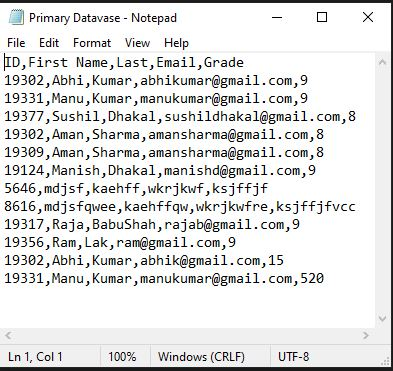
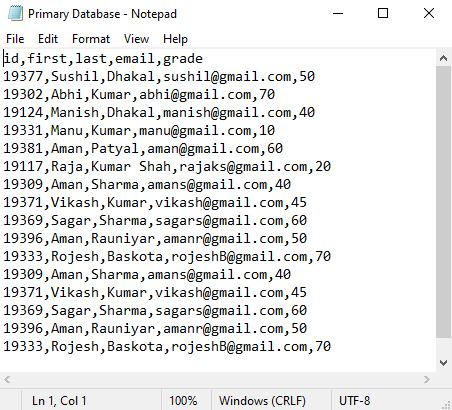
Second Version

diff --git a/StudentDetail.py b/StudentDetail.py
@@ -1,13 +1,20 @@
-from test import start
+from numpy import flatiter, true_divide
 from tkinter import *
-from numpy import heaviside
+from tkinter import messagebox
 import pandas as pd
-from pandastable import Table, TableModel
 import time
-
+import csv
 from pandas.core.indexes.base import Index
+from pandas.core.window.rolling import Window
 
-primary_database=pd.DataFrame()
+
+try: 
+    df=pd.read_csv("Primary Database.csv")
+    
+except:
+    df=pd.DataFrame(columns=["id", "first", "last", "email", "grade"])
+
+
 
 class myWindow:
     def __init__(self, win):
@@ -18,14 +25,20 @@ class myWindow:
         self.email_lab=Label(win, text="Email")
         self.grade_lab=Label(win, text="Grade")
 
-        self.submit_but=Button(win, text="Submit" , command= lambda: self.submit(win, primary_database))
-        self.save=Button(win, text="Display Database" , command= lambda: self.display_data(win, ))
+        self.submit_but=Button(win, text="Submit" , command= lambda: self.submit(win, df))
+        self.save=Button(win, text="Display Database" , command= lambda: self.display_data(win))
+        self.delete_but=Button(win, text="Delete/ Edit", command= lambda : self.delete(win, df))
+        self.save_but=Button(win, text="Save to Database", command= lambda : self.save_to_db(win, df))
+
 
         self.id_e=Entry(bd=3)
         self.fi_e=Entry(bd=3)
         self.la_e=Entry(bd=3)
         self.em_e=Entry(bd=3)
         self.gr_e=Entry(bd=3)
+        
+        self.text_box=Text(height=20, width=55)
+        
 
         self.lab1.place(x=0, y=10)
         self.id_lab.place(x=25, y=75)
@@ -39,8 +52,13 @@ class myWindow:
         self.em_e.place(x=100,y=165)
         self.gr_e.place(x=100,y=195)
 
-        self.submit_but.place(x=200, y=225)
-        self.save.place(x=300, y=225)
+        self.submit_but.place(x=75, y=235)
+        self.save.place(x=175, y=235)
+        self.delete_but.place(x=75, y= 285)
+        self.save_but.place(x=175, y= 285)
+
+        self.text_box.place(x=300, y=75)
+
 
     def killWin(self):
         killWindow()
@@ -49,8 +67,7 @@ class myWindow:
         clear_frame()
 
 
-    def submit(self, win, primary_database):
-        print('Submtted')
+    def submit(self, win, df):
         detail_dic={
             'id': self.id_e.get(),
             'first': self.fi_e.get(),
@@ -58,34 +75,91 @@ class myWindow:
             'email': self.em_e.get(),
             'grade': self.gr_e.get(),
         }
+        print('Submtted')
         print(detail_dic)
-        primary_database = primary_database.append(detail_dic, ignore_index=True)
-        primary_database=primary_database.set_index('id')
-        print(primary_database)
+        # df=df.append(detail_dic, ignore_index=True, sort=False)
+        df.loc[len(df.index)] = detail_dic
+        print("Done")
+        messagebox.showinfo("Message","Submitted Succesfully")
         self.id_e.delete(0, 'end')
         self.fi_e.delete(0, 'end')
         self.la_e.delete(0, 'end')
         self.em_e.delete(0, 'end')
         self.gr_e.delete(0, 'end')
 
-
-    # def save_to_sec(self, win, primary_database):
-        primary_database.to_csv('Primary Datavase.csv', mode='a', header=False)
+        self.display_data(win)
+        # primary_database.to_csv('Primary Datavase.csv', mode='a', header=False)
+        # print('File Saved')
+    def delete(self, win, primary_database):
+        self.delete_txt=Label(win, text="Enter ID of student the student detail.")
+        self.delete_txt.place(x=25,y=310)
+        self.delete_id=Entry(bd=3)
+        self.delete_id.place(x=25,y=350)
+        self.del_ele=Button(win, text="Delete Element", command= lambda : self.Del_ele_fun(win, df))
+        self.del_ele.place(x=200, y=350)
+        self.del_ele=Button(win, text="Edit Element", command= lambda : self.edit_ele_fun(win, df))
+        self.del_ele.place(x=200, y=400)
+        return
+    
+    def save_to_db(self,win, df):
+           # primary_database.to_csv('Primary Datavase.csv', mode='a', header=False)
+        # print('File Saved')
+        df.to_csv('Primary Database.csv', index=False)
+        messagebox.showinfo("Message","Data Saved")
         print('File Saved')
+        
+    def edit_ele_fun(self, win, df):
+        id=int(self.delete_id.get())
+        count=0
+        for x in df['id']:
+            if int(x)==id:
+                break
+            else:
+                count+=1
+        print(count)
+        a_dict=df.iloc[count]
+        print(a_dict)
+        self.id_e.insert(0,a_dict['id'])
+        self.fi_e.insert(0,a_dict['first'])
+        self.la_e.insert(0,a_dict['last'])
+        self.em_e.insert(0,a_dict['email'])
+        self.gr_e.insert(0,a_dict['grade'])
+        df.drop(df.index[count], inplace=True)         
+        self.delete_id.delete(0, 'end')
 
-    def display_data(self, parent=None):
-        start()
+    def Del_ele_fun(self, win, df):
+        id=self.delete_id.get()
+        id=int(id)
+        count=0
+        for x in df['id']:
+            if int(x)==id:
+                break
+            else:
+                count+=1
+        print(count)
+        df.drop(df.index[count], inplace=True) 
+        messagebox.showinfo("Message","Deleted Succesfully")
+        print('Done')  
+        self.delete_id.delete(0, 'end')
+
+    def display_data(self, win):
+        self.text_box.delete("0.0", END)
+        self.text_box.insert("0.0",df)
+
+        
 
 
 
 if __name__=="__main__":
+    count=0
     windows =Tk()
     myWin=myWindow(windows)
     windows.title("Student Details Panel")
-    windows.geometry('540x360')
+    windows.geometry('775x450')
     def killWindow():
         windows.destroy()
     def clear_frame():
         for widgets in windows.winfo_children():
             widgets.destroy()
     windows.mainloop()
+
